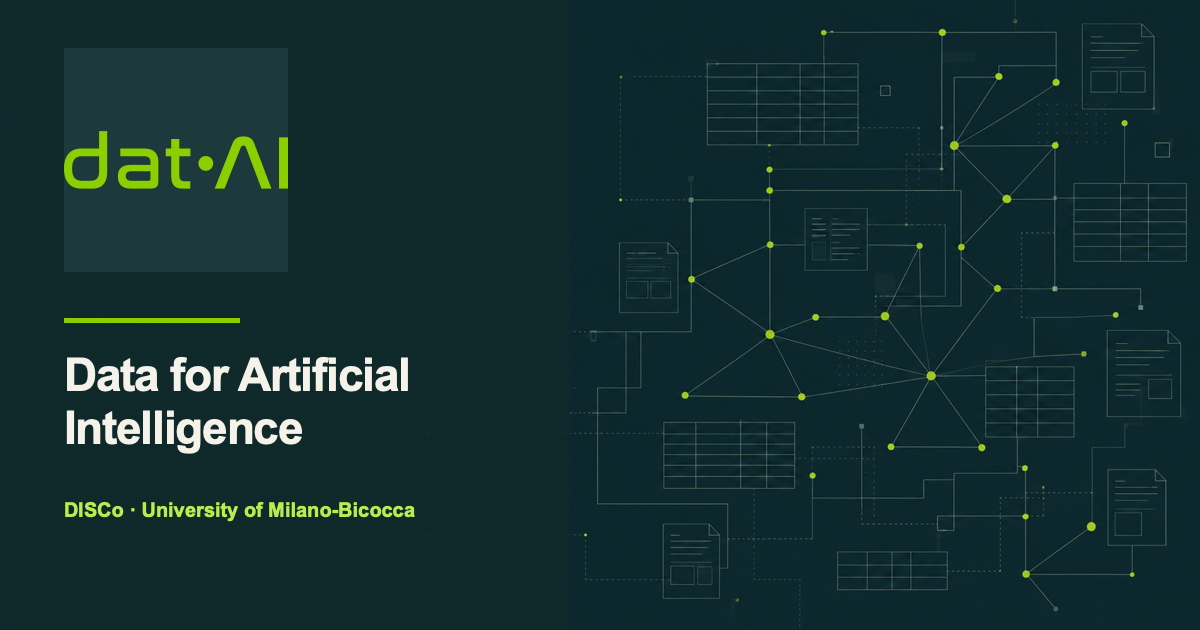
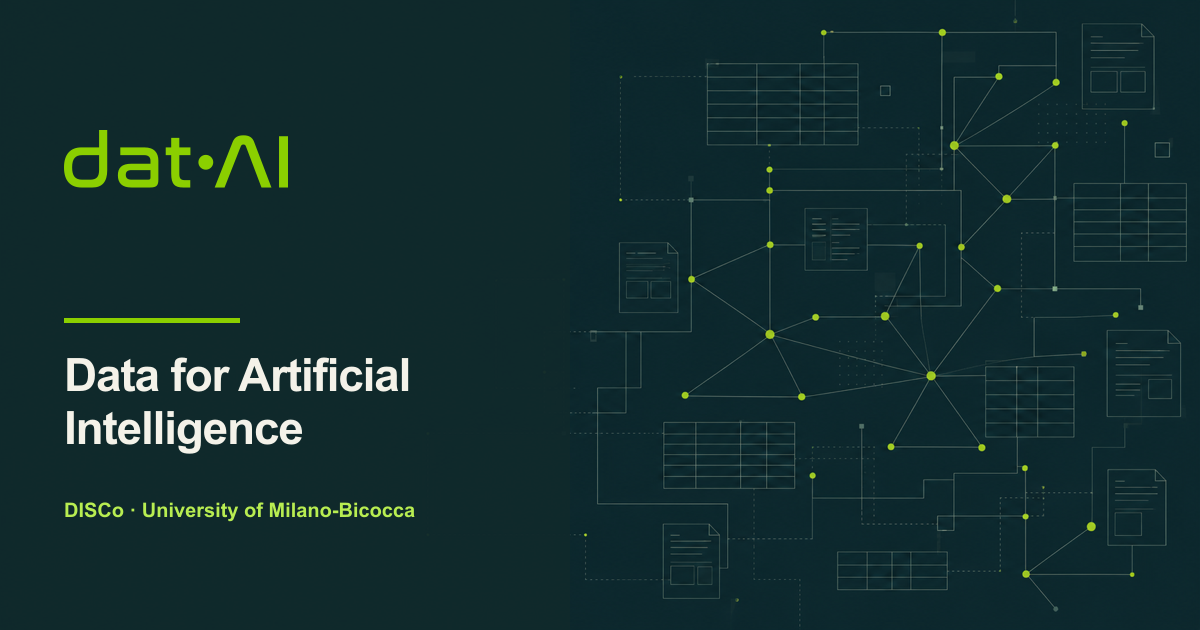
Use transparent Figma wordmark

diff --git a/src/site-shell.js b/src/site-shell.js
@@ -20,7 +20,7 @@ export function siteHeader(activePage) {
     <header class="site-header fixed inset-x-0 top-0 z-50 text-paper-50">
       <div class="mx-auto flex h-[var(--header-height)] max-w-[96rem] items-center justify-between px-5 md:px-8 xl:px-12">
         <a class="flex items-center gap-3" href="/" aria-label="DatAI home"${activePage === "home" ? ' aria-current="page"' : ""}>
-          <span class="wordmark-crop" aria-hidden="true"><img src="/assets/datai-logo.svg" alt="" width="512" height="512" /></span>
+          <span class="wordmark" aria-hidden="true"><img src="/assets/datai-logo.svg" alt="" width="512" height="132" /></span>
           <span class="hidden text-[0.62rem] font-bold uppercase leading-tight tracking-[0.11em] text-paper-50/65 lg:block">Research laboratory<br />University of Milano-Bicocca</span>
         </a>
         <nav class="hidden md:block" aria-label="Primary navigation">
@@ -47,7 +47,7 @@ export function siteFooter() {
   return `<footer class="bg-petrol-950 py-12 text-paper-50">
       <div class="mx-auto max-w-[90rem] px-5 md:px-8 xl:px-12">
         <div class="grid gap-10 border-b border-paper-50/18 pb-10 md:grid-cols-[1fr_auto] md:items-start">
-          <div class="flex items-start gap-5"><span class="wordmark-crop mt-1" aria-hidden="true"><img src="/assets/datai-logo.svg" alt="" width="512" height="512" /></span><p class="max-w-[38rem] text-sm leading-relaxed text-paper-50/65">The Data for Artificial Intelligence research laboratory at DISCo, University of Milano-Bicocca. Institutional details and the current roster are maintained as verifiable public records.</p></div>
+          <div class="flex items-start gap-5"><span class="wordmark mt-1" aria-hidden="true"><img src="/assets/datai-logo.svg" alt="" width="512" height="132" /></span><p class="max-w-[38rem] text-sm leading-relaxed text-paper-50/65">The Data for Artificial Intelligence research laboratory at DISCo, University of Milano-Bicocca. Institutional details and the current roster are maintained as verifiable public records.</p></div>
           <nav aria-label="Footer navigation"><ul class="grid grid-cols-2 gap-x-7 gap-y-3 text-sm font-extrabold md:grid-cols-1 md:text-right"><li><a class="text-acid-300 underline underline-offset-4" href="/research/">Research</a></li><li><a class="text-acid-300 underline underline-offset-4" href="/people/">People</a></li><li><a class="text-acid-300 underline underline-offset-4" href="/publications/">Publications</a></li><li><a class="text-acid-300 underline underline-offset-4" href="/contact/">Contact</a></li></ul></nav>
         </div>
         <div class="grid gap-6 border-b border-paper-50/18 py-8 md:grid-cols-[auto_1fr] md:items-center md:gap-8">

diff --git a/src/styles.css b/src/styles.css
@@ -96,17 +96,16 @@ select {
   color: #b8ed51;
 }
 
-.wordmark-crop {
+.wordmark {
+  display: block;
   width: 7.75rem;
-  height: 2.15rem;
-  overflow: hidden;
   flex: none;
 }
 
-.wordmark-crop img {
-  width: 7.75rem;
-  height: 7.75rem;
-  transform: translateY(-2.79rem);
+.wordmark img {
+  display: block;
+  width: 100%;
+  height: auto;
 }
 
 .unimib-mark-field {
@@ -566,14 +565,8 @@ a.publication-title:hover {
     --header-height: 4rem;
   }
 
-  .wordmark-crop {
+  .wordmark {
     width: 5.8rem;
-  }
-
-  .wordmark-crop img {
-    width: 5.8rem;
-    height: 5.8rem;
-    transform: translateY(-2.08rem);
   }
 
   .specimen {

diff --git a/DESIGN.md b/DESIGN.md
@@ -190,7 +190,7 @@ The University of Milano-Bicocca relationship must be explicit in the first view
 - Official assets record type, authoritative source, URL, and retrieval date.
 - Generated rasters record generator, prompt summary, date, SHA-256, source path, and shipping status.
 - Composites list every item in `derived_from`, plus purpose and date.
-- `datai-logo.svg` remains authoritative to Figma node `7:187`.
+- `datai-logo.svg` is the transparent vector layer `7:188` extracted from the authoritative Figma logo frame `7:187`; never reintroduce the frame background into the asset.
 - `unimib-institutional-logo.png` remains the official positive mark served by `unimib.it`; its white support, proportions and clear area follow the University Brand Book 2025.
 - Never use an AI-generated visual as documentary research evidence.
 
